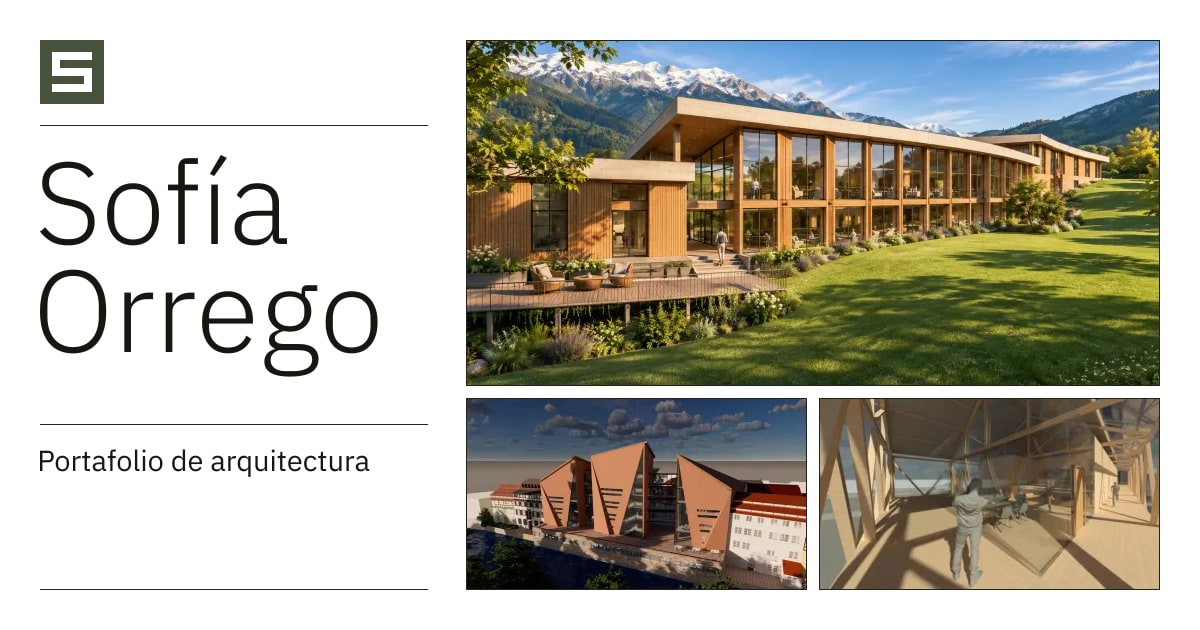
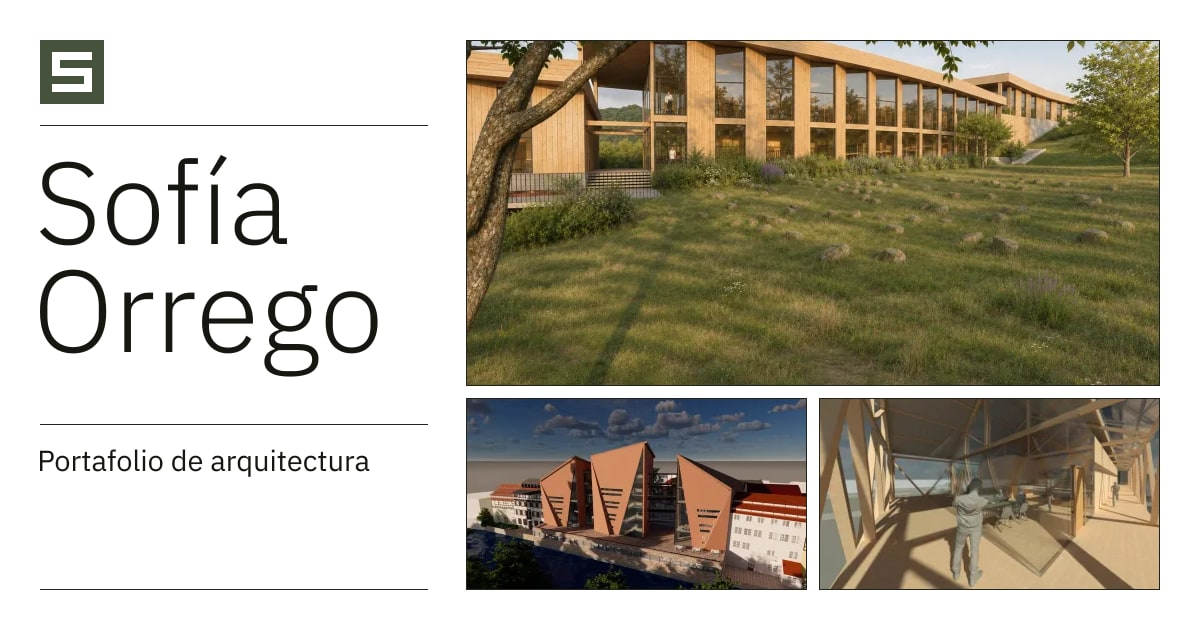
Publica la galería aprobada de Lodge Senior

Changed region(s): [[0.37, 0.0603, 0.9867, 0.6333]]

diff --git a/content/projects.ts b/content/projects.ts
@@ -10,39 +10,81 @@ export const projects: PortfolioProject[] = [
       "El programa reúne 20 habitaciones, piscinas, terrazas y espacios de descanso. Sobre fundaciones de hormigón armado, la estructura combina paneles de madera contralaminada (CLT) con vigas y pilares de pino radiata laminado.",
     ].join("\n\n"),
     cover: {
-      src: "/proyectos/lodge-senior.webp",
-      alt: "Vista conceptual del lodge entre montañas, con fachada de madera y grandes ventanales",
-      width: 1871,
-      height: 840,
+      src: "/proyectos/lodge-senior/01-fachada-pradera.webp",
+      alt: "Vista exterior del lodge, con fachada de madera y grandes ventanales frente a la pradera",
+      width: 1448,
+      height: 1086,
     },
     gallery: [
       {
-        src: "/proyectos/lodge-senior/vista-exterior.webp",
-        alt: "El lodge se escalona hacia el paisaje con cubiertas verdes y terrazas",
-        caption: "Vista exterior del lodge",
-        width: 1799,
-        height: 896,
+        src: "/proyectos/lodge-senior/02-vista-del-conjunto.webp",
+        alt: "Vista general del lodge escalonado sobre la pradera, con cubiertas verdes y terrazas",
+        caption: "Vista general",
+        width: 1672,
+        height: 941,
       },
       {
-        src: "/proyectos/lodge-senior/planta-nivel-02.webp",
-        alt: "Planta del lodge con habitaciones y espacios comunes a lo largo de un recorrido curvo",
-        caption: "Planta del nivel −02",
-        width: 1799,
-        height: 755,
+        src: "/proyectos/lodge-senior/03-acceso.webp",
+        alt: "Camino de acceso al lodge junto a una cubierta verde que baja hacia el terreno",
+        caption: "Acceso",
+        width: 1672,
+        height: 941,
       },
       {
-        src: "/proyectos/lodge-senior/corte-longitudinal.webp",
-        alt: "Corte del lodge con los niveles escalonados sobre la pendiente",
-        caption: "Corte longitudinal A-A′",
-        width: 1799,
-        height: 360,
+        src: "/proyectos/lodge-senior/04-pasarela.webp",
+        alt: "Pasarela de madera con grandes ventanales y vistas a las montañas",
+        caption: "Pasarela con vista al paisaje",
+        width: 1670,
+        height: 941,
       },
       {
-        src: "/proyectos/lodge-senior/elevacion-oeste.webp",
-        alt: "Elevación del lodge con la fachada de madera y su encuentro con el terreno",
+        src: "/proyectos/lodge-senior/05-corredor.webp",
+        alt: "Corredor interior de madera con jardineras, bancos y salida a la terraza",
+        caption: "Corredor interior",
+        width: 1516,
+        height: 853,
+      },
+      {
+        src: "/proyectos/lodge-senior/06-spa.webp",
+        alt: "Piscina interior del spa con ventanales y vistas al valle",
+        caption: "Spa y piscina interior",
+        width: 1672,
+        height: 941,
+      },
+      {
+        src: "/proyectos/lodge-senior/07-planta-nivel-1.webp",
+        alt: "Planta arquitectónica del nivel 1 del lodge, con cotas y escala gráfica",
+        caption: "Planta del nivel 1",
+        width: 3601,
+        height: 2330,
+      },
+      {
+        src: "/proyectos/lodge-senior/08-planta-nivel-menos-1.webp",
+        alt: "Planta arquitectónica del nivel −1, con las habitaciones dispuestas a lo largo del recorrido curvo",
+        caption: "Planta del nivel −1",
+        width: 3601,
+        height: 2330,
+      },
+      {
+        src: "/proyectos/lodge-senior/09-planta-nivel-menos-2.webp",
+        alt: "Planta arquitectónica del nivel −2, con habitaciones, espacios comunes y terrazas",
+        caption: "Planta del nivel −2",
+        width: 3601,
+        height: 2330,
+      },
+      {
+        src: "/proyectos/lodge-senior/10-elevacion-oeste.webp",
+        alt: "Elevación oeste del lodge con el desarrollo de la fachada y su relación con la pendiente",
         caption: "Elevación oeste",
-        width: 1799,
-        height: 355,
+        width: 3600,
+        height: 990,
+      },
+      {
+        src: "/proyectos/lodge-senior/11-corte-b.webp",
+        alt: "Corte transversal del lodge que muestra los niveles interiores y el encuentro con el terreno",
+        caption: "Corte B-B′",
+        width: 3600,
+        height: 2052,
       },
     ],
   },
